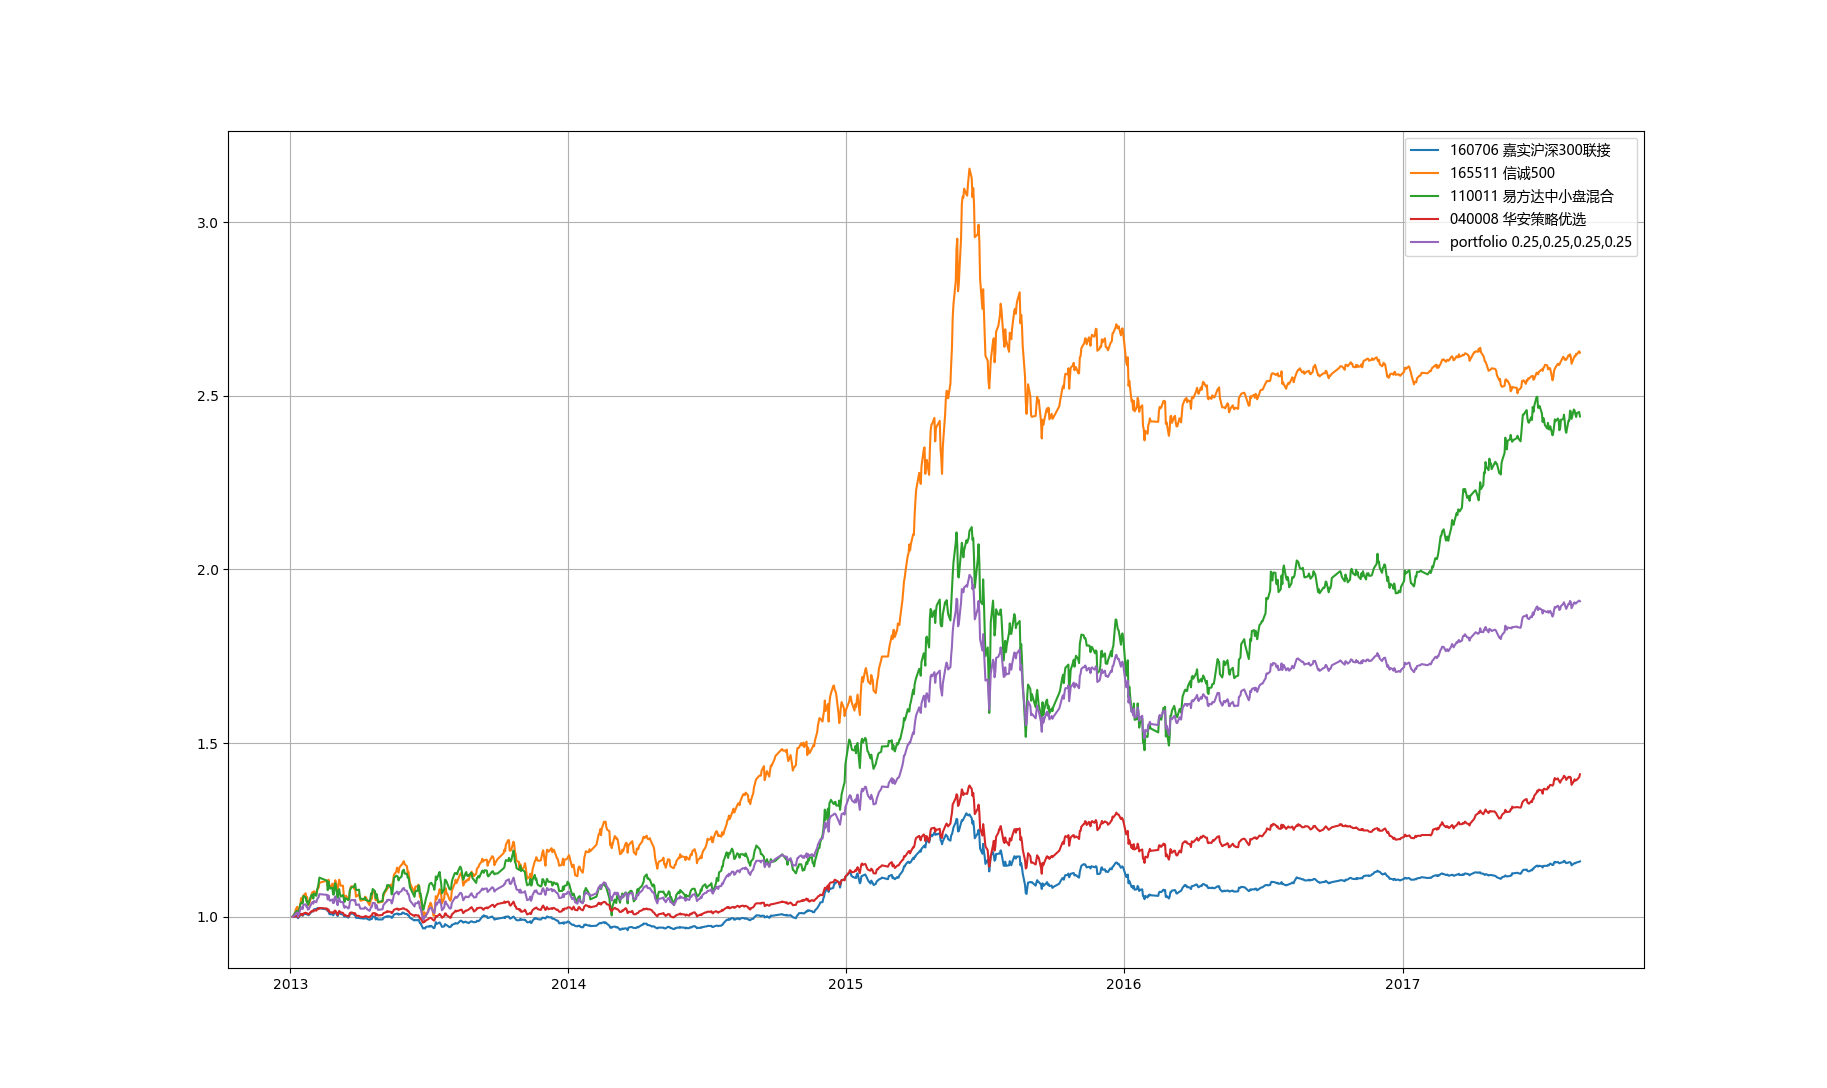
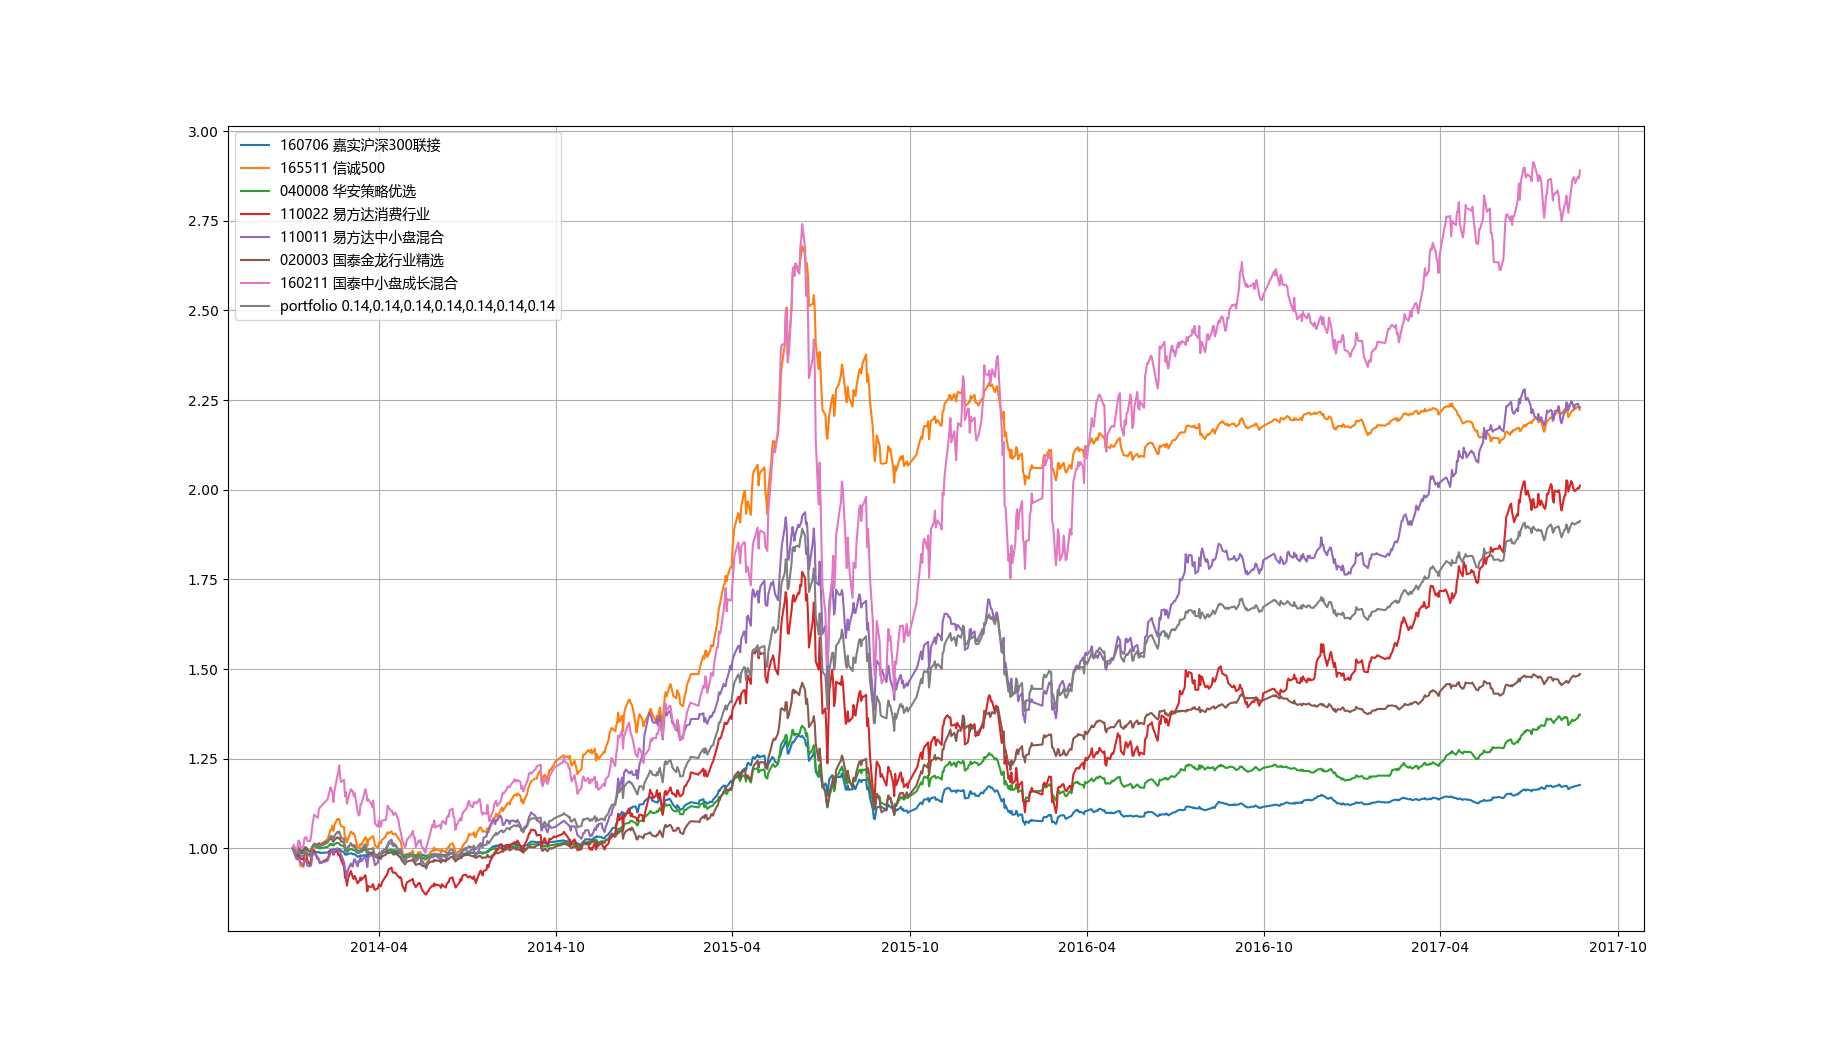
comment the code

diff --git a/funddata.py b/funddata.py
@@ -16,11 +16,11 @@ import sys
 
 if __name__ == "__main__":
 
-    startdate = '2013-01-01'
+    startdate = '2014-01-01'
     enddate = '2017-08-31'
-    codelist = ['160706', '165511', '110011', '040008']
-    
-    # read command line arguments
+    codelist = ['160706', '165511', '040008', '110022', '110011', '020003', '160211']
+
+    # Read command line arguments
     if len(sys.argv) > 1:
         startdate = sys.argv[1]   
         if len(sys.argv) > 2:
@@ -31,27 +31,31 @@ if __name__ == "__main__":
 
     # portfolio weights
     weightlist = [1/len(codelist) for i in codelist]
-    
+
     print(startdate, enddate, codelist)
-    
+
+    # Generate URLs from start date, end date and code list
     urls = ['http://data.funds.hexun.com/outxml/detail/openfundnetvalue.aspx?fundcode='
           +fundcode+'&startdate='+startdate+'&enddate='+enddate
           for fundcode in codelist]
     namelist = []
     timeserieslist = []
-    
+
+    # Create time series from XML content at the URLs
     for url in urls:
         req = Request(url, headers={'User-Agent': 'Mozilla/5.0'})
         data = urlopen(req).read()
         tree = ET.fromstring(data)
+        
+        # Append dates and net asset values to the 2 lists respectively
         datelist = []
         valuelist = []
-        
         for child in tree:
             if child.tag == 'Data':
                 datelist.append(datetime.strptime(child.find('fld_enddate').text, '%Y-%m-%d'))
                 valuelist.append(float(child.find('fld_netvalue').text))
-        
+
+        # Create a time series from the lists
         valuelist = [i/valuelist[-1] for i in reversed(valuelist)]
         datelist = list(reversed(datelist))
         fundname = tree.find('fundcode').text + ' ' + tree.find('fundname').text
@@ -60,19 +64,25 @@ if __name__ == "__main__":
         y = np.array(valuelist)
         ts = pd.Series(y, index=x, name=fundname)
         timeserieslist.append(ts)
-    
+
+    # Concatenate time series
     df = pd.concat(timeserieslist, axis=1)
+
+    # The portfolio is a weighted sum of the funds
     df2 = df.copy()
     for i in range(len(weightlist)):
         df2[namelist[i]] = df2[namelist[i]] * weightlist[i]
-    
+
     portfolioname = 'portfolio'
-    df[portfolioname] = df2.sum(axis=1, skipna=False)
+    df[portfolioname] = df2.sum(axis=1, skipna=False)  
+
+    # Calculate risk-adjusted return
     std = df.std()
     retstd = (df.iloc[[-1]] - 1) / std
     risk_adjusted_return = df.iloc[[0,-1]].append(std.rename('standard deviation')).append(retstd.iloc[0].rename('return/standard deviation'))
     print(risk_adjusted_return)
-    
+
+    # Plot the funds and the portfolio
     plt.plot(df)
     myfont = fm.FontProperties(fname='C:/Windows/Fonts/msyh.ttc')
     namelist.append(portfolioname+' '+','.join(["{:.2f}".format(i) for i in weightlist]))

diff --git a/README.md b/README.md
@@ -5,6 +5,6 @@ The code was written in and tested with Python 3.6 (Anaconda 4.4.0).
 ## Usage
 #### Run funddata.py with command line arguments of start date, end date and a list of fund codes
 #### Example:
-python funddata.py 2013-01-01 2017-08-31 160706 165511 110011 040008
+python funddata.py 2014-01-01 2017-08-31 160706 165511 040008 110022 110011 020003 160211
 
 ![Screenshot](screenshot.png)
